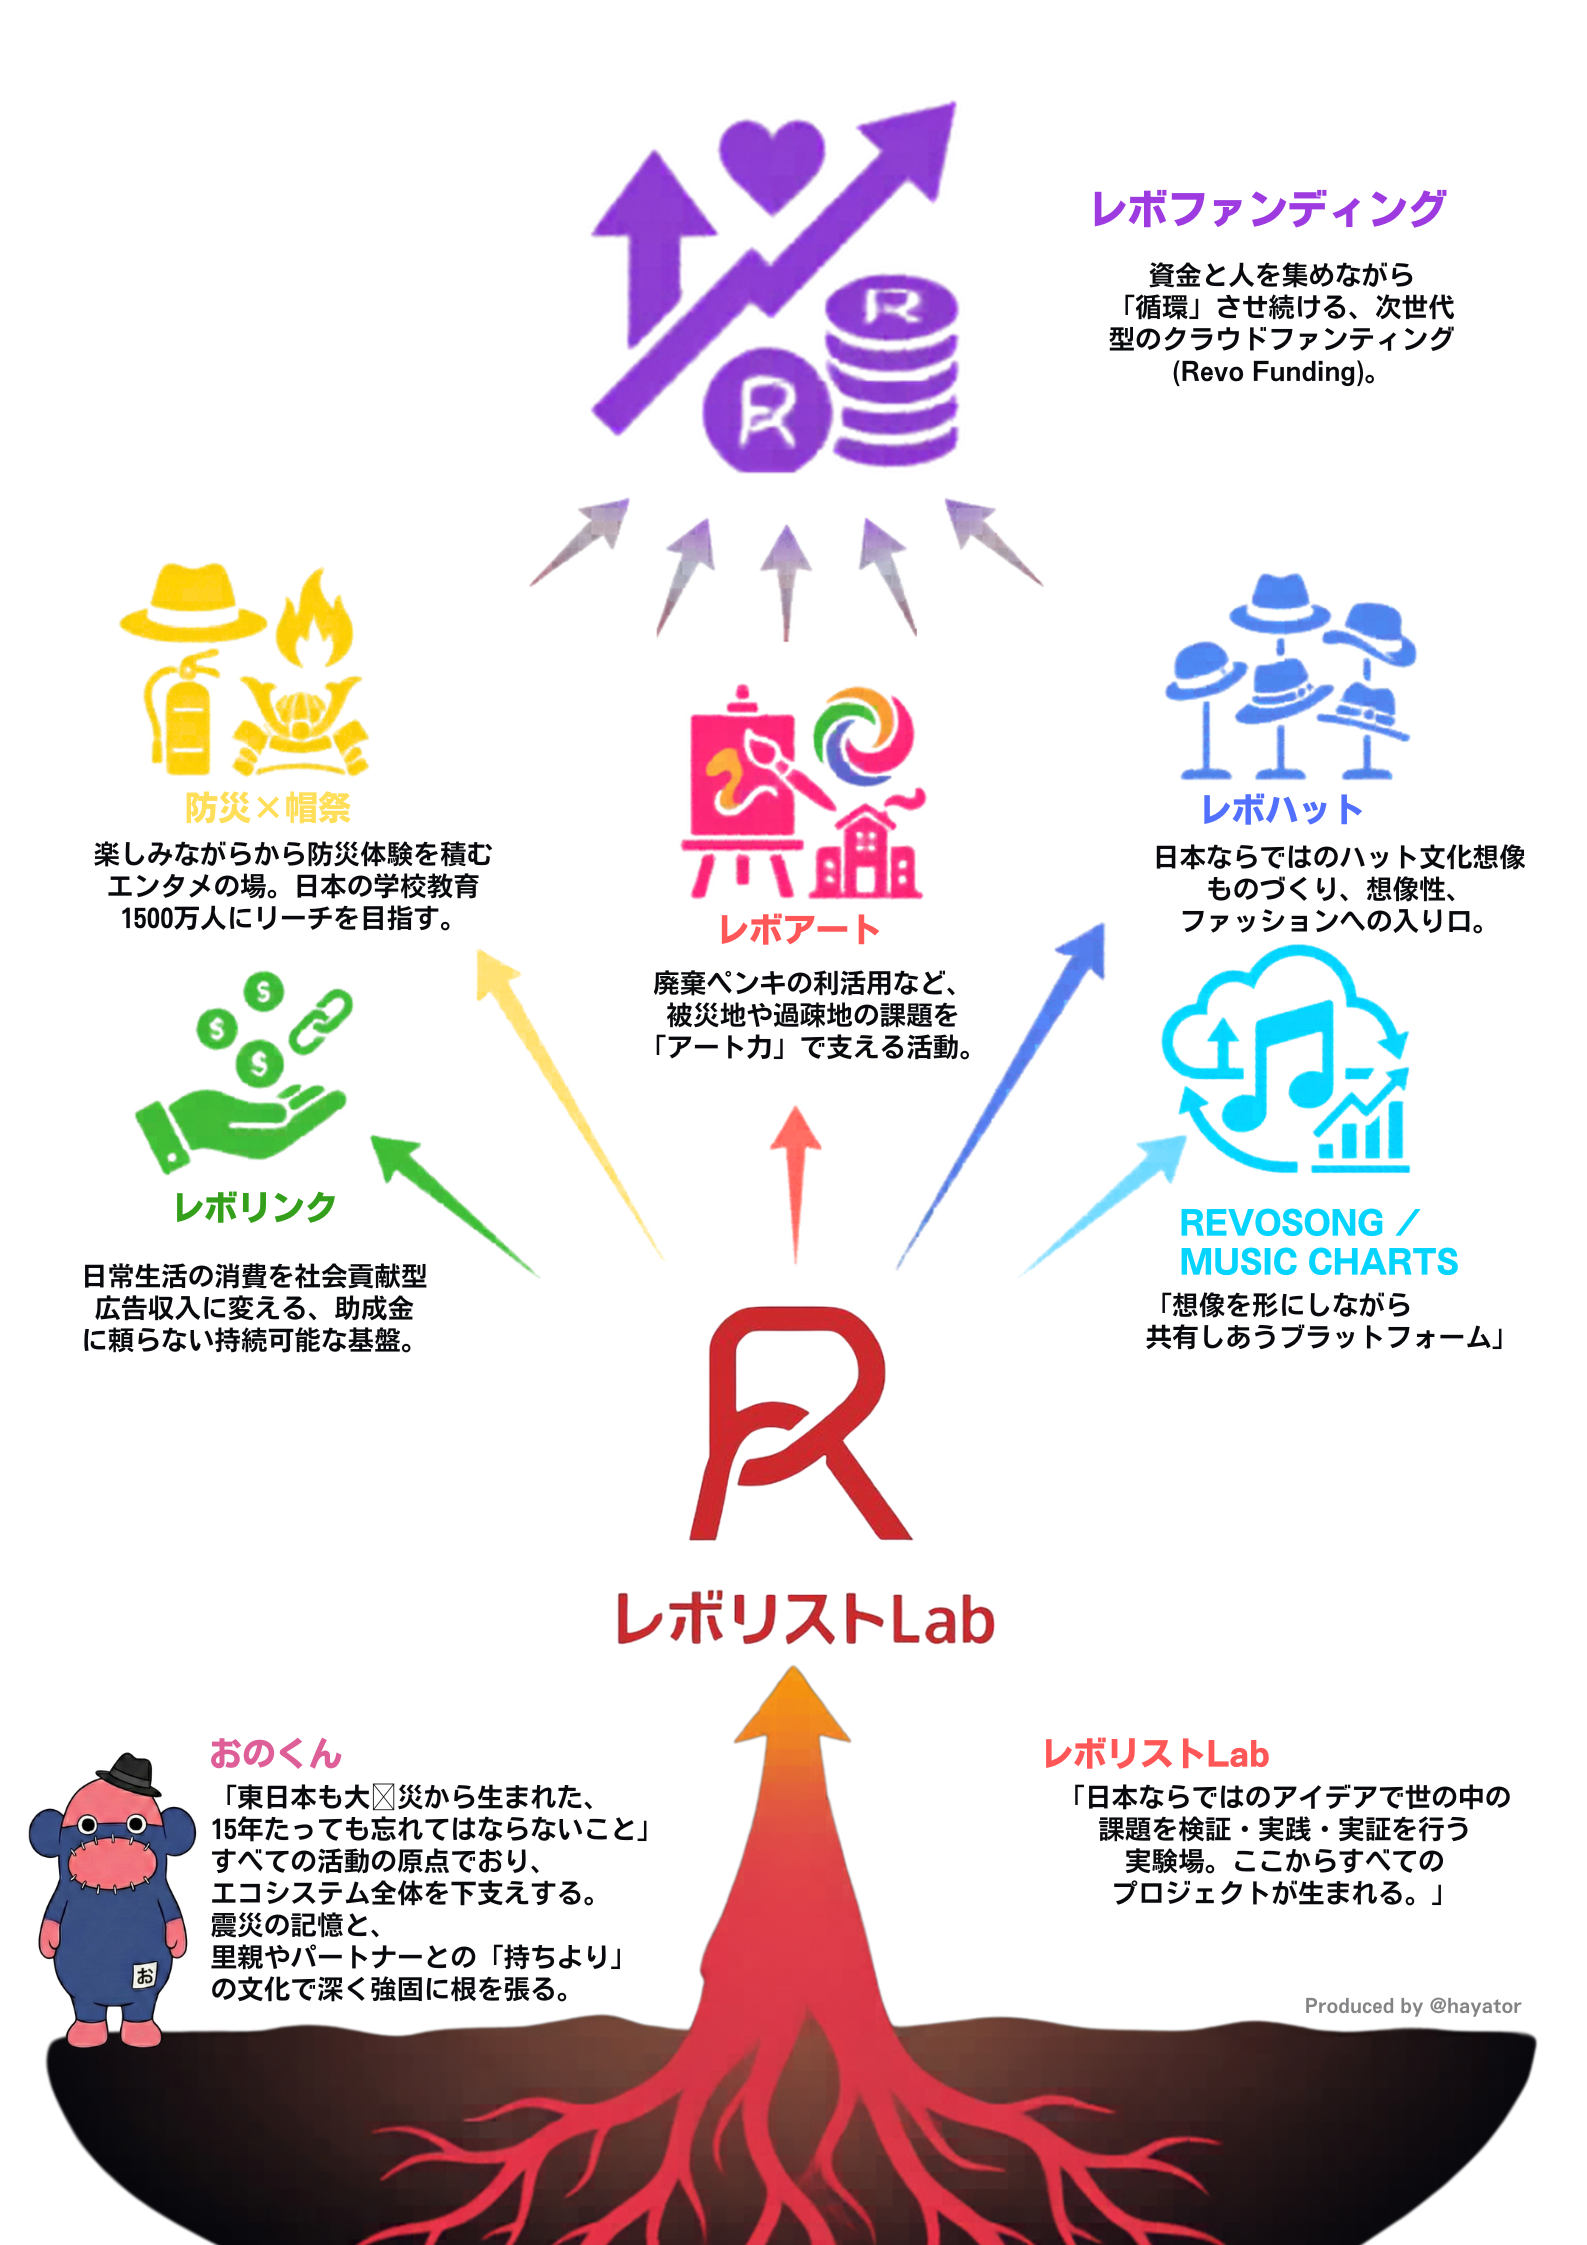
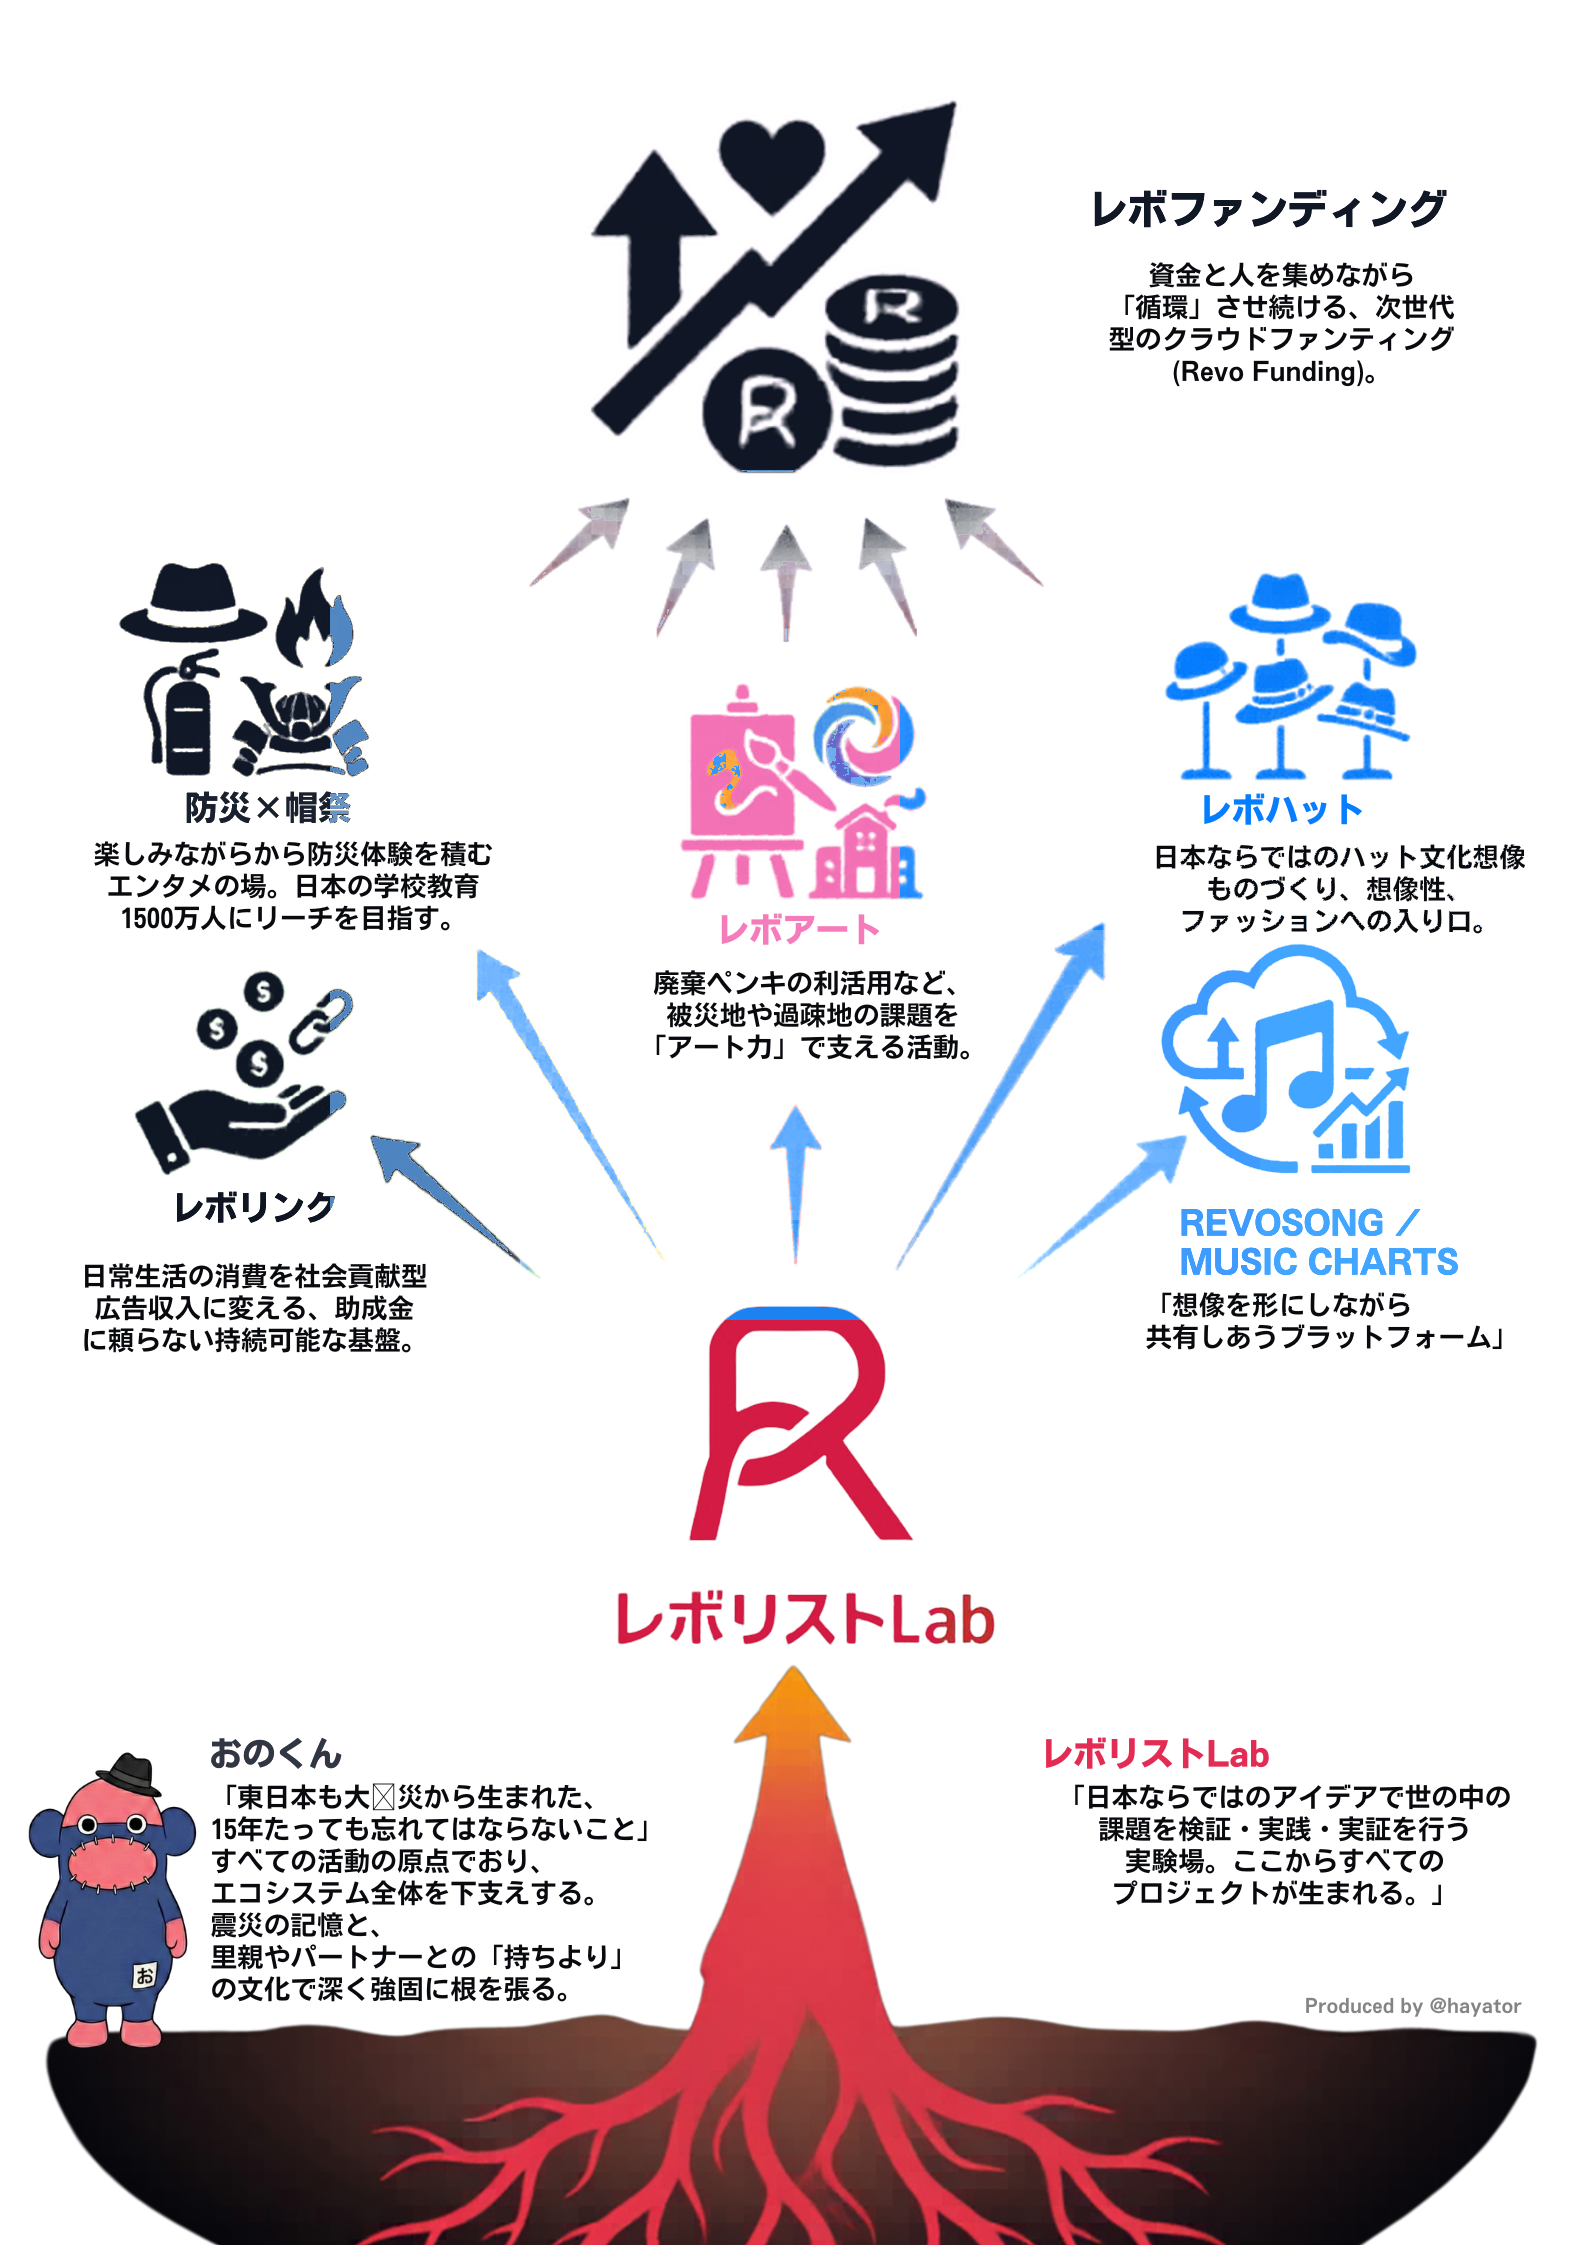
Add linked Revolist Lab image map

diff --git a/revolist.html b/revolist.html
@@ -261,6 +261,42 @@
         border-radius: 8px;
       }
 
+      .linked-image-map {
+        position: relative;
+        width: min(100%, 792px);
+        max-width: calc(71vh - 112px);
+        min-width: min(100%, 320px);
+        margin: 0 auto;
+      }
+
+      .linked-image-map img {
+        max-height: none;
+      }
+
+      .image-hotspot {
+        position: absolute;
+        border-radius: 10px;
+        outline: 0 solid rgba(0, 122, 255, 0);
+        background: rgba(0, 122, 255, 0);
+        transition: background 0.18s ease, outline 0.18s ease;
+      }
+
+      .image-hotspot:hover,
+      .image-hotspot:focus-visible {
+        outline: 3px solid rgba(0, 122, 255, 0.45);
+        background: rgba(0, 122, 255, 0.08);
+      }
+
+      .hotspot-funding { left: 34%; top: 3%; width: 56%; height: 20%; }
+      .hotspot-bosai { left: 4%; top: 24%; width: 28%; height: 18%; }
+      .hotspot-hat { left: 67%; top: 24%; width: 30%; height: 18%; }
+      .hotspot-art { left: 37%; top: 30%; width: 27%; height: 18%; }
+      .hotspot-link { left: 3%; top: 43%; width: 31%; height: 18%; }
+      .hotspot-song { left: 67%; top: 42%; width: 31%; height: 20%; }
+      .hotspot-lab { left: 35%; top: 59%; width: 31%; height: 18%; }
+      .hotspot-onokun { left: 0%; top: 78%; width: 37%; height: 20%; }
+      .hotspot-lab-note { left: 63%; top: 78%; width: 35%; height: 17%; }
+
       .seo-figure figcaption {
         margin-top: 14px;
         color: #5b6470;
@@ -420,10 +456,21 @@
 
       <section class="section">
         <figure class="seo-figure">
-          <img
-            src="revolist-lab-map.png"
-            alt="レボファンディングを中心に、レボリストLab、おのくん、防災×帽祭、レボアート、レボリンク、レボソング、レボハットが社会貢献型プロジェクトとしてつながる全体図"
-          />
+          <div class="linked-image-map">
+            <img
+              src="revolist-lab-map.png"
+              alt="レボファンディングを中心に、レボリストLab、おのくん、防災×帽祭、レボアート、レボリンク、レボソング、レボハットが社会貢献型プロジェクトとしてつながる全体図"
+            />
+            <a class="image-hotspot hotspot-funding" href="supporters.html" aria-label="レボファンディングのページへ"></a>
+            <a class="image-hotspot hotspot-bosai" href="https://revolist.earth/bosai-bosai" target="_blank" rel="noreferrer" aria-label="防災×帽祭のページへ"></a>
+            <a class="image-hotspot hotspot-hat" href="shop.html" aria-label="レボハットのページへ"></a>
+            <a class="image-hotspot hotspot-art" href="revo-art.html" aria-label="レボアートのページへ"></a>
+            <a class="image-hotspot hotspot-link" href="https://onokun.com/socially-responsible-sponsorship/" target="_blank" rel="noreferrer" aria-label="レボリンクのページへ"></a>
+            <a class="image-hotspot hotspot-song" href="https://revosong-charts.vercel.app/" target="_blank" rel="noreferrer" aria-label="レボソングのページへ"></a>
+            <a class="image-hotspot hotspot-lab" href="revolist.html" aria-label="レボリストLabのページへ"></a>
+            <a class="image-hotspot hotspot-onokun" href="https://onokun.com/" target="_blank" rel="noreferrer" aria-label="おのくんのページへ"></a>
+            <a class="image-hotspot hotspot-lab-note" href="revolist.html" aria-label="レボリストLabの説明へ"></a>
+          </div>
           <figcaption>
             レボファンディングを中心に、レボリストLabから生まれる社会貢献型プロジェクトの全体図。
           </figcaption>
